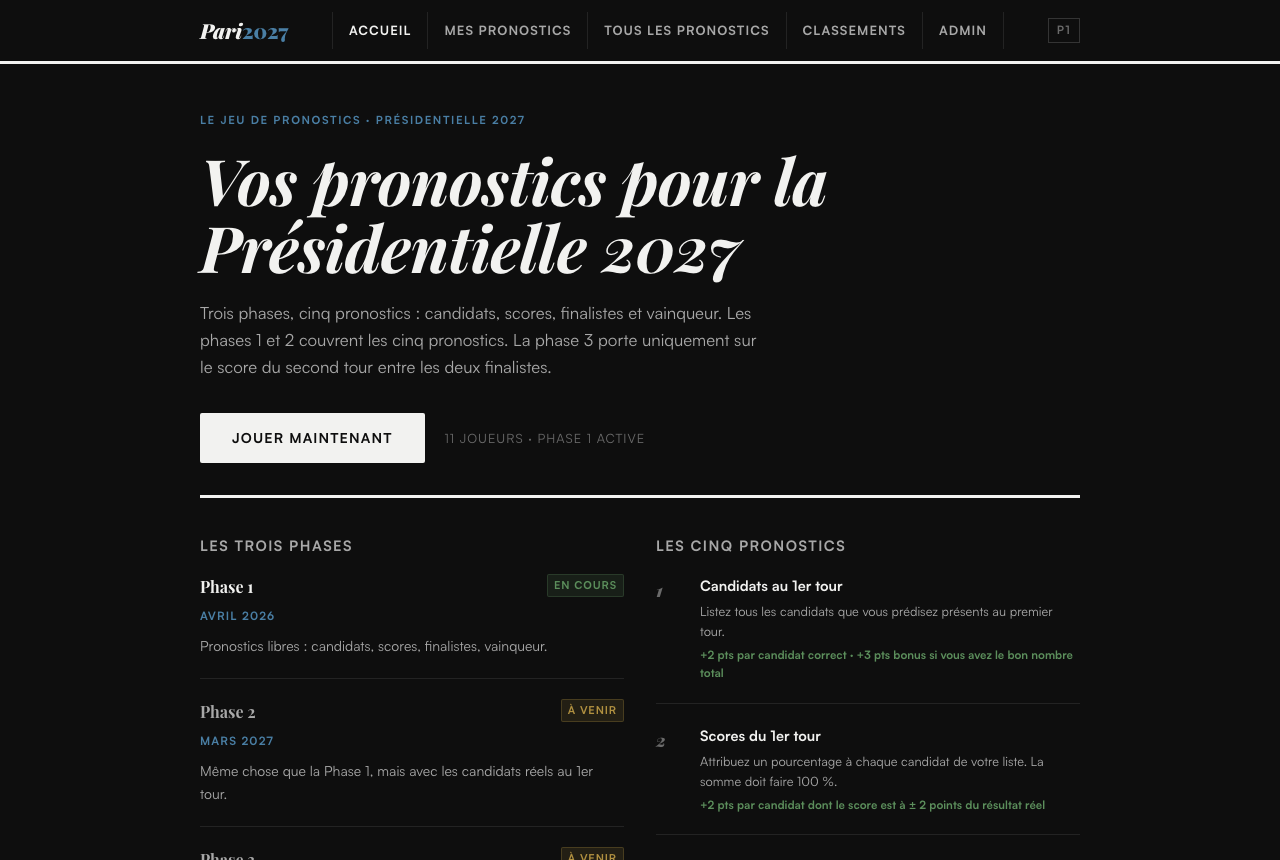
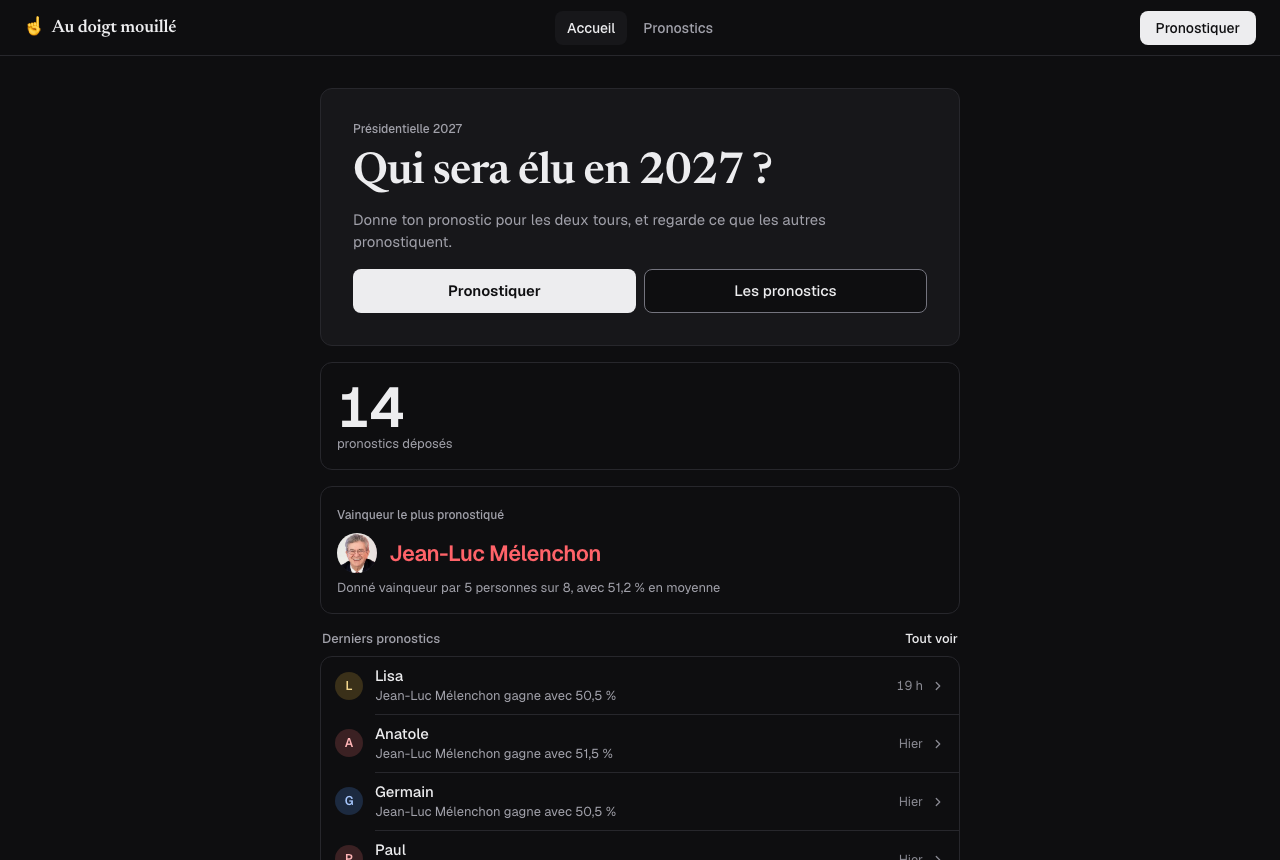
README : présentation d'Au doigt mouillé et nouvelles captures

diff --git a/README.md b/README.md
@@ -1,44 +1,36 @@
-# Pari 2027
+# ☝ Au doigt mouillé
 
-Jeu de pronostics entre amis pour l'élection présidentielle française de 2027 : qui sera candidat, avec quels scores, qui ira au second tour et qui l'emportera.
+Pronostics entre amis pour l'élection présidentielle française de 2027 : qui sera au premier tour, avec quels scores, qui ira au second tour et qui l'emportera.
 
-**[pari2027.vercel.app](https://pari2027.vercel.app)**
+**[audoigtmouille.vercel.app](https://audoigtmouille.vercel.app)**
 
 ![Page d'accueil](docs/accueil.png)
 
 ## Le concept
 
-Un groupe d'amis parie sur l'élection, un an avant le premier tour. L'application est accessible par un simple lien, sans compte à créer, depuis un téléphone ou un ordinateur.
+On poste un pronostic avec un simple **pseudo**, sans compte ni code, depuis un téléphone ou un ordinateur, et on voit ce que les autres pronostiquent.
 
-Le jeu se joue en **trois phases**, ouvertes par l'administrateur au fil du calendrier électoral :
+Un pronostic couvre **toujours les deux tours** :
 
-| Phase | Quand | Ce qu'on pronostique |
-|---|---|---|
-| 1 | Un an avant le 1er tour | Tout, à l'aveugle |
-| 2 | Liste officielle des candidats connue | Tout, avec les vrais candidats |
-| 3 | Entre les deux tours | Le score du second tour |
+1. **1er tour** : les candidats et leur pourcentage (total 100 %).
+2. **2nd tour** : les finalistes sont les deux premiers du 1er tour ; on choisit le vainqueur et son score (plus de 50 %), le vaincu a le complément.
+3. **Pseudo** et récapitulatif, puis envoi.
 
-Chaque phase compte **cinq pronostics** :
+Un pronostic est définitif : pour changer d'avis, on en poste un nouveau. Les tendances ne retiennent que le dernier pronostic de chaque pseudo, la liste les montre tous.
 
-| # | Pronostic | Barème |
-|---|---|---|
-| 1 | Candidats présents au 1er tour | +2 pts par candidat correct, +3 si le nombre total est exact |
-| 2 | Scores du 1er tour | +2 pts par score à ±2 points du résultat réel |
-| 3 | Les deux finalistes | +8 si les deux sont bons, +3 pour un seul |
-| 4 | Le vainqueur | +6 pts |
-| 5 | Score du vainqueur au 2nd tour | +2 pts si à ±2 points |
+Pas de score ni de classement pour l'instant : une brique de scoring viendra quand la liste officielle des candidats sera connue.
 
-Chaque phase est scorée indépendamment ; le classement général fait la somme. En cas d'égalité, le meilleur score au pronostic 2 départage.
+![Tendances du 1er tour](docs/pronostics.png)
 
-![Pronostics des joueurs](docs/pronostics.png)
+## Écrans
 
-## Fonctionnalités
-
-- **Saisie guidée** : recherche de candidats avec photos, finalistes déduits des scores saisis, sauvegarde automatique à chaque modification
-- **Lecture publique** de tous les pronostics et des classements
-- **Gel automatique** des pronostics d'une phase quand la suivante s'ouvre
-- **Panneau d'administration** : changement de phase, saisie des résultats officiels, gestion des joueurs et de leurs codes
-- **Responsive**, pensé d'abord pour le mobile
+| Adresse | Contenu |
+|---|---|
+| `/` | La promesse, le nombre de pronostics, le vainqueur le plus pronostiqué, les derniers pronostics |
+| `/pronostics` | 1er tour / 2nd tour : les tendances candidat par candidat, puis la liste des pronostics |
+| `/pronostics/:id` | Le détail d'un pronostic |
+| `/pronostiquer` | La saisie en trois étapes |
+| `/admin` | Résultats réels et modération (masquer ou réafficher un pronostic) |
 
 ## Stack
 
@@ -50,34 +42,27 @@ Chaque phase est scorée indépendamment ; le classement général fait la somme
 
 Pas de backend applicatif : le frontend parle directement à Supabase. Toute la logique sensible vit dans PostgreSQL.
 
-## Sécurité sans comptes utilisateurs
+## Sécurité sans comptes
 
-L'application devait rester sans inscription, mais un lien public ne doit pas permettre d'effacer ou de modifier les paris des autres. Le modèle retenu :
-
-- **Lecture seule pour le public.** Les politiques Row Level Security n'autorisent que la lecture ; les droits d'écriture directe sont retirés.
-- **Écritures via des fonctions SQL** (`SECURITY DEFINER`) qui vérifient un secret avant d'agir :
-  - chaque joueur a un **code à 4 chiffres**, demandé une fois par appareil, pour modifier ses propres pronostics ;
-  - l'administrateur a un **mot de passe vérifié côté serveur**, jamais embarqué dans le code client.
-- **Secrets hachés** (bcrypt via `pgcrypto`) dans un schéma `private` non exposé par l'API.
-- **Anti force brute** : 5 codes faux bloquent le joueur 15 minutes.
-- Les fonctions refusent aussi une écriture sur une phase close ou gelée, et valident la taille des données.
-
-Le détail est dans [`supabase_migration_v3_securite.sql`](supabase_migration_v3_securite.sql).
+- **Lecture seule pour le public** : les politiques Row Level Security n'autorisent que la lecture, et seulement des pronostics non masqués.
+- **Écritures via des fonctions SQL** `SECURITY DEFINER` :
+  - `create_pronostic` (publique) valide tout côté serveur : 2 à 40 candidats, total de 100 %, finalistes = deux premiers, vainqueur à plus de 50 %, pseudo de 30 caractères au plus ; anti-rafale (un pronostic par pseudo et par minute, 120 par heure) ;
+  - les fonctions d'administration (`admin_login`, `admin_save_results`, `admin_set_masque`…) vérifient un **mot de passe haché** (bcrypt via `pgcrypto`) rangé dans un schéma `private` non exposé par l'API.
 
 ## Structure
 
 ```
 app/
-  api/keepalive.js        Ping quotidien (cron Vercel) pour éviter la mise en pause de Supabase
+  api/keepalive.js         Ping quotidien (cron Vercel) pour que Supabase gratuit ne se mette pas en pause
   src/
-    pages/                Accueil, Pronostics, Tous les pronostics, Classements, Admin
-    components/           Navigation, avatars des candidats, vue de lecture, confettis
-    store/GameContext.jsx État global et accès aux données
-    lib/scoring.js        Moteur de calcul des points
-    data/                 Liste des candidats potentiels et photos
-supabase_schema.sql       Schéma initial
-supabase_migration_*.sql  Migrations successives
-specs_pari2027.docx       Spécifications d'origine
+    pages/                 Accueil, pronostics (tendances, liste, détail), pronostiquer, admin
+    ui/, layout/           Composants d'interface et coque de l'application
+    store/GameContext.jsx  État global et accès aux données
+    lib/                   Logique pure testée (parcours, pronostic, tendances, photos, marque)
+    data/                  Candidats potentiels et photos
+docs/                      Cadrage produit (pivot-pronostics.md) et historique de la refonte
+supabase_schema.sql        Schéma initial
+supabase_migration_*.sql   Migrations successives (v2 à v8)
 ```
 
 ## Lancer en local
@@ -87,10 +72,15 @@ cd app
 npm install
 cp .env.example .env   # renseigner l'URL et la clé anon du projet Supabase
 npm run dev
+npm test               # tests Vitest de app/src/lib
 ```
 
-Pour une base neuve, exécuter dans l'éditeur SQL de Supabase, dans l'ordre : `supabase_schema.sql`, `supabase_migration_v2.sql`, `supabase_migration_v3_securite.sql`, puis définir le mot de passe admin dans `private.admin_secret`.
+Pour une base neuve, exécuter dans l'éditeur SQL de Supabase, dans l'ordre : `supabase_schema.sql` puis les migrations `v2` à `v8`, et définir le mot de passe admin dans `private.admin_secret`. La v8 retire l'ancien modèle (joueurs, périodes, codes) : les fichiers antérieurs décrivent l'historique, pas la base actuelle.
 
 ## Déploiement
 
-Chaque push sur `main` est déployé automatiquement par Vercel. Les variables `VITE_SUPABASE_URL` et `VITE_SUPABASE_ANON_KEY` sont à définir dans le projet Vercel.
+Chaque push sur `main` est déployé automatiquement par Vercel (Root Directory : `app`). Les variables `VITE_SUPABASE_URL` et `VITE_SUPABASE_ANON_KEY` sont à définir dans le projet Vercel.
+
+## Historique
+
+Le projet s'appelait **Pari 2027** : paris par phases, codes joueurs, barème et classement ([specs d'origine](specs_pari2027.docx)). Il a été simplifié le 13 novembre 2026 en un site de pronostics avec pseudo ([docs/pivot-pronostics.md](docs/pivot-pronostics.md)). L'ancienne adresse [pari2027.vercel.app](https://pari2027.vercel.app) répond toujours.
